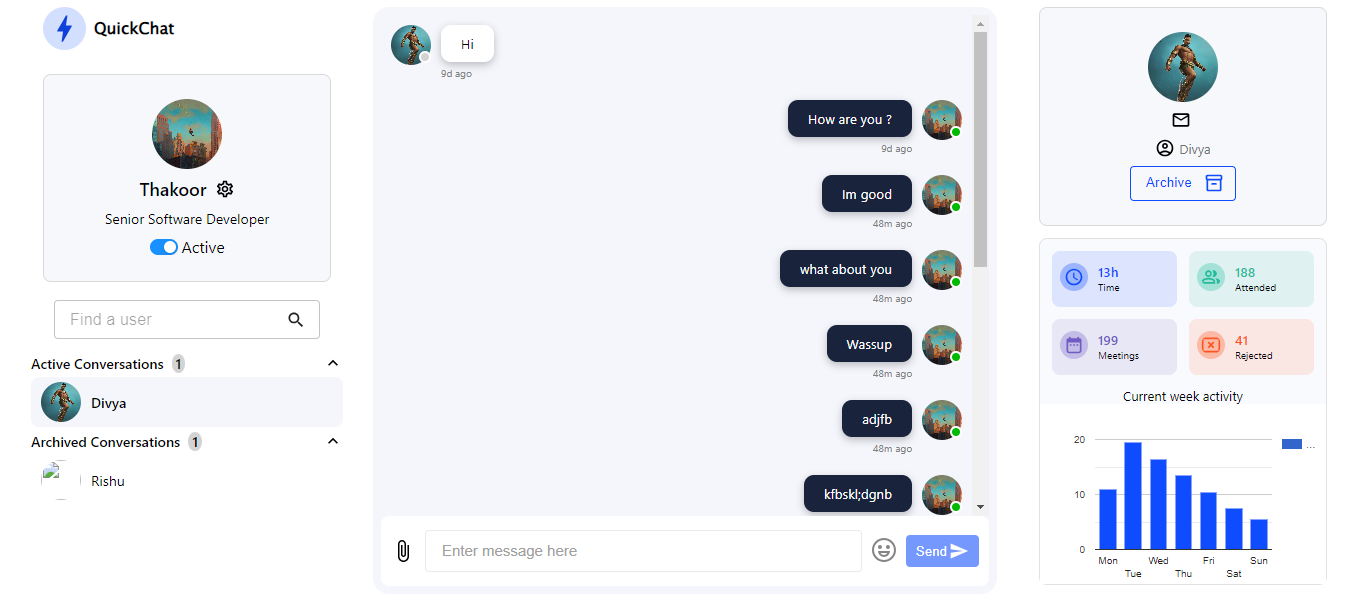
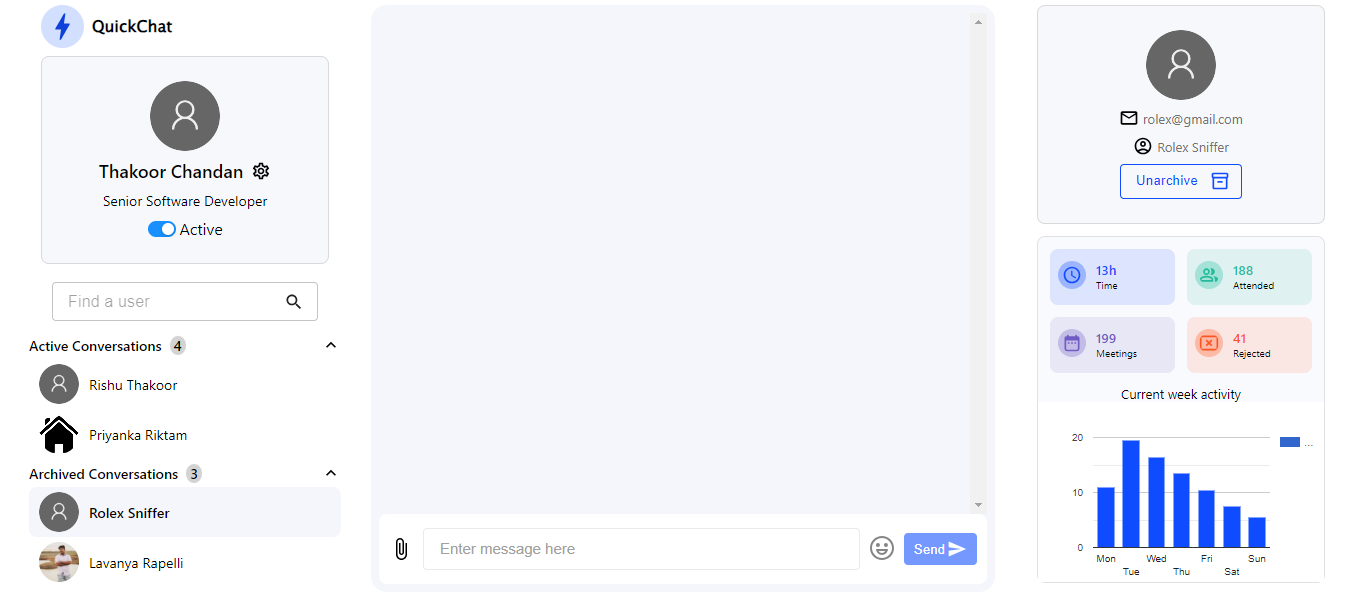
Final Changes

diff --git a/src/Components/LeftPanel/LeftPanel.jsx b/src/Components/LeftPanel/LeftPanel.jsx
@@ -127,7 +127,7 @@ export const LeftPanel = () => {
           </Stack>
         </div>
       ) : (
-        <div>
+        <div className="activeChats">
           {activeChats.map((chat) => (
             <div
               className={`userChat ${
@@ -168,7 +168,7 @@ export const LeftPanel = () => {
           </Stack>
         </div>
       ) : (
-        <div>
+        <div className="archivedChats">
           {archivedChats.map((chat) => (
             <div
               className={`userChat ${

diff --git a/src/Components/LeftPanel/styles.css b/src/Components/LeftPanel/styles.css
@@ -22,6 +22,23 @@
   font-weight: 500;
 }
 
+.activeChats {
+  max-height: 100px;
+  overflow-y: scroll;
+}
+
+.archivedChats {
+  max-height: 100px;
+  overflow-y: scroll;
+}
+.activeChats::-webkit-scrollbar {
+  display: none;
+}
+
+.archivedChats::-webkit-scrollbar {
+  display: none;
+}
+
 .chatCount {
   background-color: lightgray;
   border-radius: 50%;

diff --git a/src/Components/ProfileInfo/styles.css b/src/Components/ProfileInfo/styles.css
@@ -27,7 +27,6 @@
   display: flex;
   flex-direction: column;
   align-items: center;
-  margin-top: 24px;
 }
 .targetInfoWrapper {
   margin-top: 0px !important;
